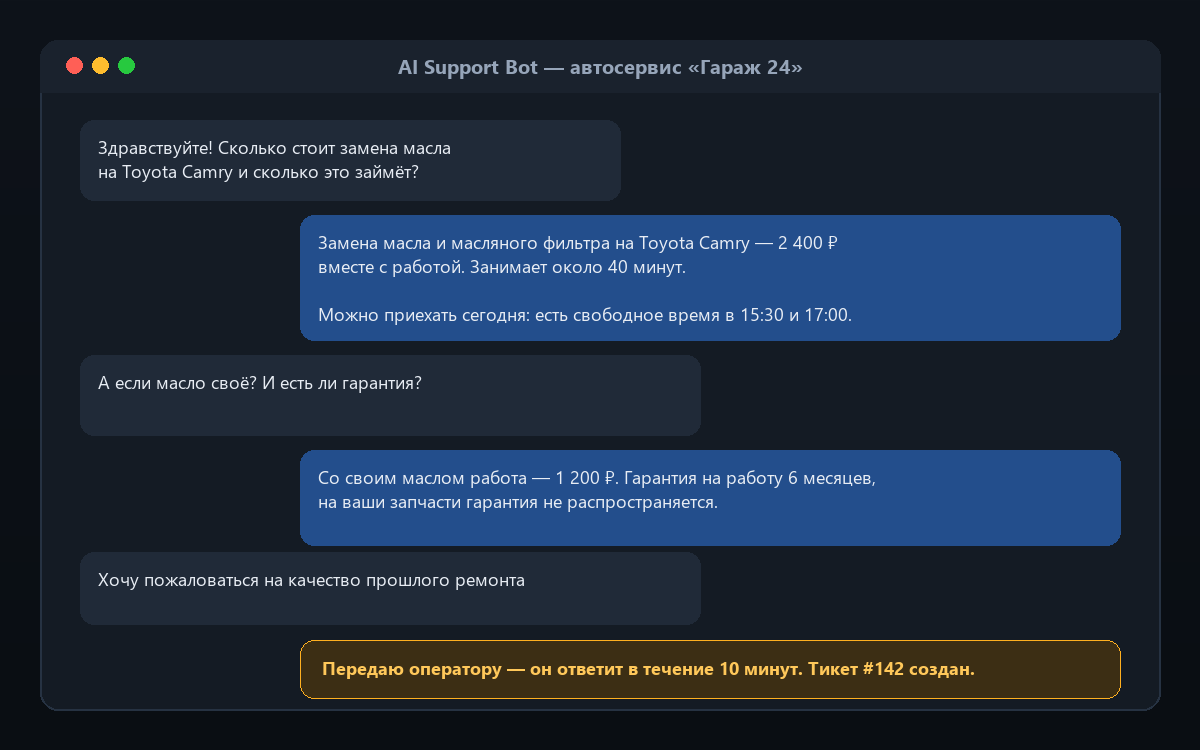
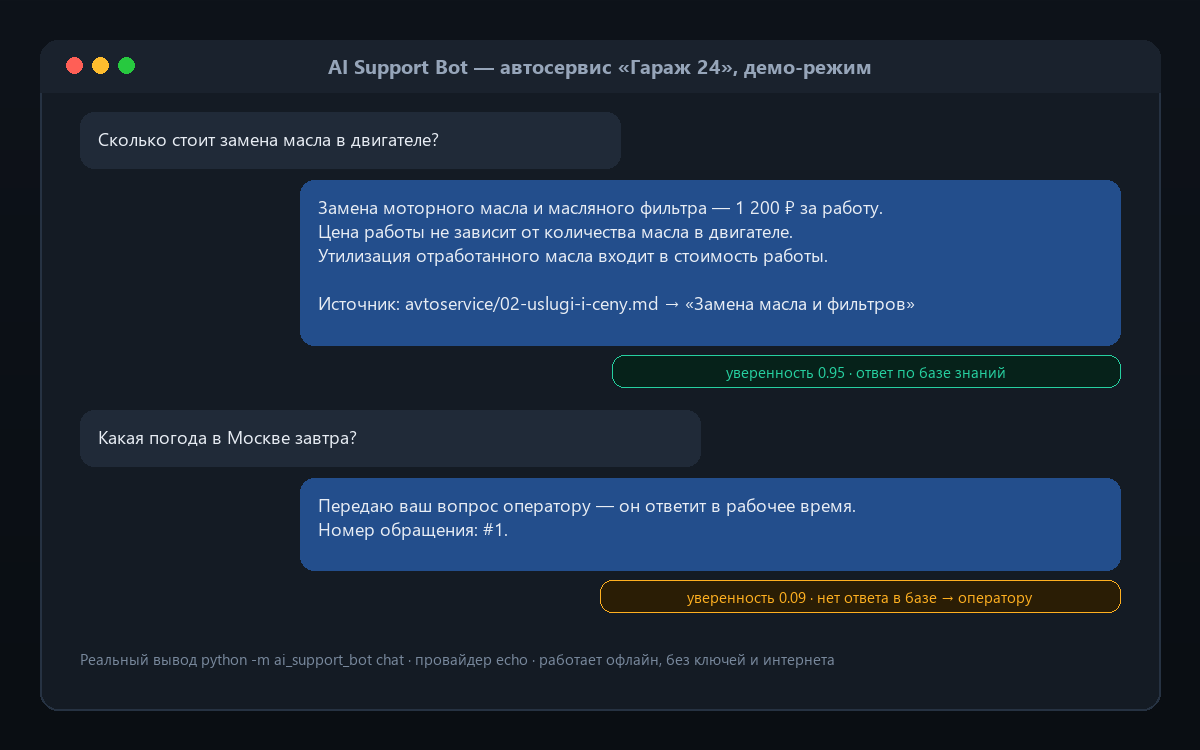
chore: fill in real contacts and use the real project screenshots in case cards

diff --git a/index.html b/index.html
@@ -10,12 +10,10 @@
 <meta property="og:type" content="website">
 
 <!-- ============================================================
-     ЧТО ЗАМЕНИТЬ ПЕРЕД ПУБЛИКАЦИЕЙ (поиск по слову ЗАМЕНИТЕ):
-       1. ИМЯ           — ваше имя или ник
-       2. TELEGRAM      — ссылка вида https://t.me/ваш_ник  (встречается 4 раза)
-       3. GITHUB        — ссылка на ваш профиль GitHub
-       4. EMAIL         — если хотите показывать почту
-       5. Картинки кейсов в assets/ — положите свои скриншоты
+     Контакты подставлены: Telegram @andrewka66, GitHub andrewka12.
+     Если что-то изменится — ищи ссылки t.me и github.com ниже.
+     Цены в калькуляторе — в атрибутах data-price / data-days.
+     Проверка перед публикацией: node tools/prepublish-check.js
      ============================================================ -->
 
 <style>
@@ -190,7 +188,7 @@
       <a href="#faq">Вопросы</a>
     </nav>
     <!-- ЗАМЕНИТЕ: ссылку Telegram -->
-    <a class="btn btn-primary" href="https://t.me/ВАШ_НИК" target="_blank" rel="noopener">Написать в Telegram</a>
+    <a class="btn btn-primary" href="https://t.me/andrewka66" target="_blank" rel="noopener">Написать в Telegram</a>
   </div>
 </header>
 
@@ -208,7 +206,7 @@
       </p>
       <div class="hero-cta">
         <!-- ЗАМЕНИТЕ: ссылку Telegram -->
-        <a class="btn btn-primary" href="https://t.me/ВАШ_НИК" target="_blank" rel="noopener">Обсудить задачу</a>
+        <a class="btn btn-primary" href="https://t.me/andrewka66" target="_blank" rel="noopener">Обсудить задачу</a>
         <a class="btn btn-ghost" href="#cases">Посмотреть кейсы</a>
       </div>
       <div class="stats">
@@ -276,7 +274,7 @@
               <span class="tag">Python</span><span class="tag">SQLite</span><span class="tag">openpyxl</span><span class="tag">Telegram API</span>
             </div>
             <!-- ЗАМЕНИТЕ: ссылку на репозиторий -->
-            <a class="repo" href="https://github.com/ВАШ_ЛОГИН/mp-monitor" target="_blank" rel="noopener">Смотреть код на GitHub →</a>
+            <a class="repo" href="https://github.com/andrewka12/mp-monitor" target="_blank" rel="noopener">Смотреть код на GitHub →</a>
           </div>
         </article>
 
@@ -296,7 +294,7 @@
               <span class="tag">Python</span><span class="tag">RAG</span><span class="tag">SQLite</span><span class="tag">LLM API</span>
             </div>
             <!-- ЗАМЕНИТЕ: ссылку на репозиторий -->
-            <a class="repo" href="https://github.com/ВАШ_ЛОГИН/ai-support-bot" target="_blank" rel="noopener">Смотреть код на GitHub →</a>
+            <a class="repo" href="https://github.com/andrewka12/ai-support-bot" target="_blank" rel="noopener">Смотреть код на GitHub →</a>
           </div>
         </article>
 
@@ -390,7 +388,7 @@
           </p>
           <!-- ЗАМЕНИТЕ: ссылку Telegram -->
           <a class="btn btn-primary" style="width:100%;justify-content:center"
-             href="https://t.me/ВАШ_НИК" target="_blank" rel="noopener">Обсудить проект</a>
+             href="https://t.me/andrewka66" target="_blank" rel="noopener">Обсудить проект</a>
         </aside>
       </div>
     </div>
@@ -471,9 +469,9 @@
         </p>
         <div class="contact-cta">
           <!-- ЗАМЕНИТЕ: ссылку Telegram -->
-          <a class="btn btn-primary" href="https://t.me/ВАШ_НИК" target="_blank" rel="noopener">Написать в Telegram</a>
+          <a class="btn btn-primary" href="https://t.me/andrewka66" target="_blank" rel="noopener">Написать в Telegram</a>
           <!-- ЗАМЕНИТЕ: ссылку GitHub -->
-          <a class="btn btn-ghost" href="https://github.com/ВАШ_ЛОГИН" target="_blank" rel="noopener">Профиль на GitHub</a>
+          <a class="btn btn-ghost" href="https://github.com/andrewka12" target="_blank" rel="noopener">Профиль на GitHub</a>
         </div>
       </div>
     </div>
@@ -483,7 +481,7 @@
 
 <footer>
   <div class="wrap foot">
-    <div>© <span id="year"></span> <!-- ЗАМЕНИТЕ: ваше имя -->Ваше Имя — автоматизация для Wildberries и Ozon</div>
+    <div>© <span id="year"></span> andrewka12 — автоматизация для Wildberries и Ozon</div>
     <div>Работаю как самозанятый · Предоставляю чек · Удалённо</div>
   </div>
 </footer>

diff --git a/assets/_generate_previews.py b/assets/_generate_previews.py
@@ -126,22 +126,50 @@ def bubble(d, box, text, mine, fnt):
     d.text((x0 + 18, y0 + 14), text, font=fnt, fill=(232, 237, 244))
 
 
+def badge(d, box, text, color, fnt):
+    x0, y0, x1, y1 = box
+    d.rounded_rectangle(box, radius=12, fill=(color[0] // 6, color[1] // 6, color[2] // 6),
+                        outline=color, width=1)
+    d.text(((x0 + x1) / 2, (y0 + y1) / 2), text, font=fnt, fill=color, anchor="mm")
+
+
 def make_ai_bot():
+    """Preview built from the REAL output of `python -m ai_support_bot chat`.
+
+    Text below is copied verbatim from the project's own demo run, so the card
+    shows what the bot actually answers — not an invented dialogue.
+    """
     img = vgrad((14, 19, 26), (10, 14, 19), (W, H))
     d = ImageDraw.Draw(img)
-    window_chrome(d, W, H, "AI Support Bot — автосервис «Гараж 24»")
+    window_chrome(d, W, H, "AI Support Bot — автосервис «Гараж 24», демо-режим")
     f = font(18)
-    fb = font(18, True)
-    bubble(d, (80, 120, 620, 200), "Здравствуйте! Сколько стоит замена масла\nна Toyota Camry и сколько это займёт?", False, f)
-    bubble(d, (300, 215, 1120, 340),
-           "Замена масла и масляного фильтра на Toyota Camry — 2 400 ₽\nвместе с работой. Занимает около 40 минут.\n\nМожно приехать сегодня: есть свободное время в 15:30 и 17:00.", True, f)
-    bubble(d, (80, 355, 700, 435), "А если масло своё? И есть ли гарантия?", False, f)
-    bubble(d, (300, 450, 1120, 545),
-           "Со своим маслом работа — 1 200 ₽. Гарантия на работу 6 месяцев,\nна ваши запчасти гарантия не распространяется.", True, f)
-    bubble(d, (80, 552, 700, 624), "Хочу пожаловаться на качество прошлого ремонта", False, f)
-    d.rounded_rectangle([300, 640, 1120, 698], radius=14, fill=(60, 46, 20), outline=(255, 176, 32), width=1)
-    d.text((322, 655), "Передаю оператору — он ответит в течение 10 минут. Тикет #142 создан.",
-           font=fb, fill=(255, 200, 90))
+    fm = font(15)
+    fb = font(17, True)
+
+    # обмен 1: вопрос, ответ на который есть в базе знаний
+    bubble(d, (80, 112, 620, 168),
+           "Сколько стоит замена масла в двигателе?", False, f)
+    bubble(d, (300, 180, 1120, 345),
+           "Замена моторного масла и масляного фильтра — 1 200 ₽ за работу.\n"
+           "Цена работы не зависит от количества масла в двигателе.\n"
+           "Утилизация отработанного масла входит в стоимость работы.\n"
+           "\n"
+           "Источник: avtoservice/02-uslugi-i-ceny.md → «Замена масла и фильтров»", True, f)
+    badge(d, (612, 355, 1120, 387),
+          "уверенность 0.95 · ответ по базе знаний", (38, 208, 160), fm)
+
+    # обмен 2: вопрос вне базы знаний — бот честно зовёт оператора
+    bubble(d, (80, 410, 700, 466),
+           "Какая погода в Москве завтра?", False, f)
+    bubble(d, (300, 478, 1120, 570),
+           "Передаю ваш вопрос оператору — он ответит в рабочее время.\n"
+           "Номер обращения: #1.", True, f)
+    badge(d, (600, 580, 1120, 612),
+          "уверенность 0.09 · нет ответа в базе → оператору", (255, 176, 32), fm)
+
+    d.text((80, 648),
+           "Реальный вывод python -m ai_support_bot chat · провайдер echo · работает офлайн, без ключей и интернета",
+           font=fm, fill=(120, 136, 156))
     img.save(os.path.join(OUT, "ai-support-bot.png"), "PNG")
 
 
